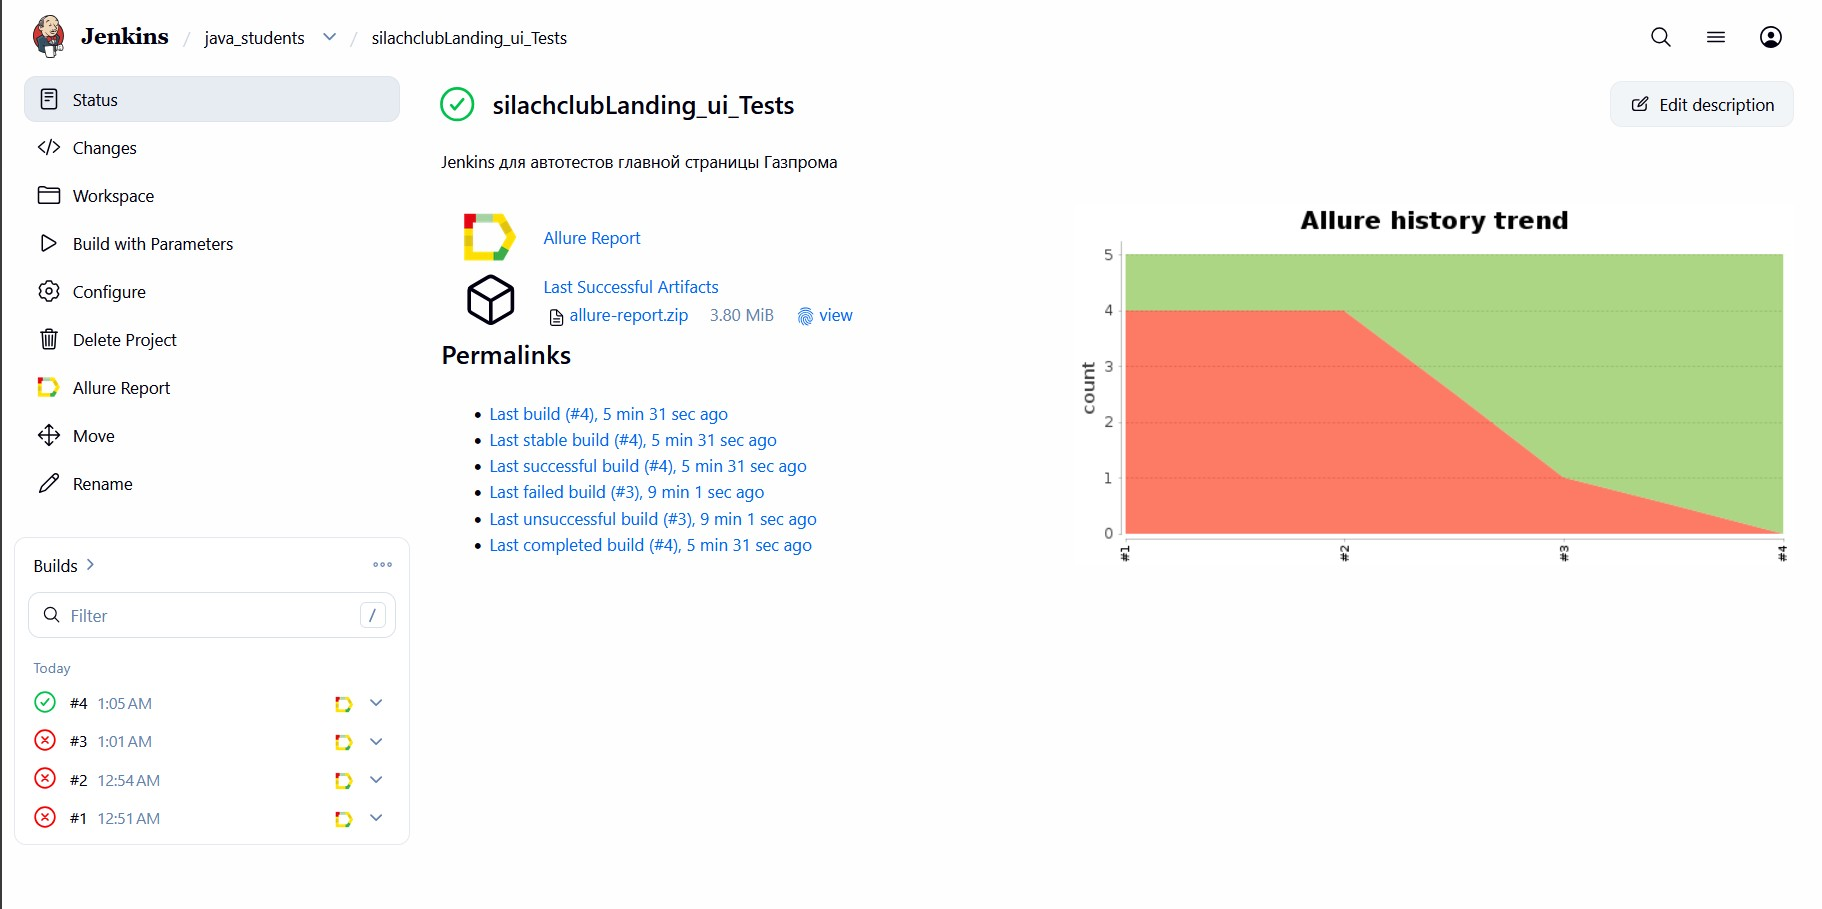
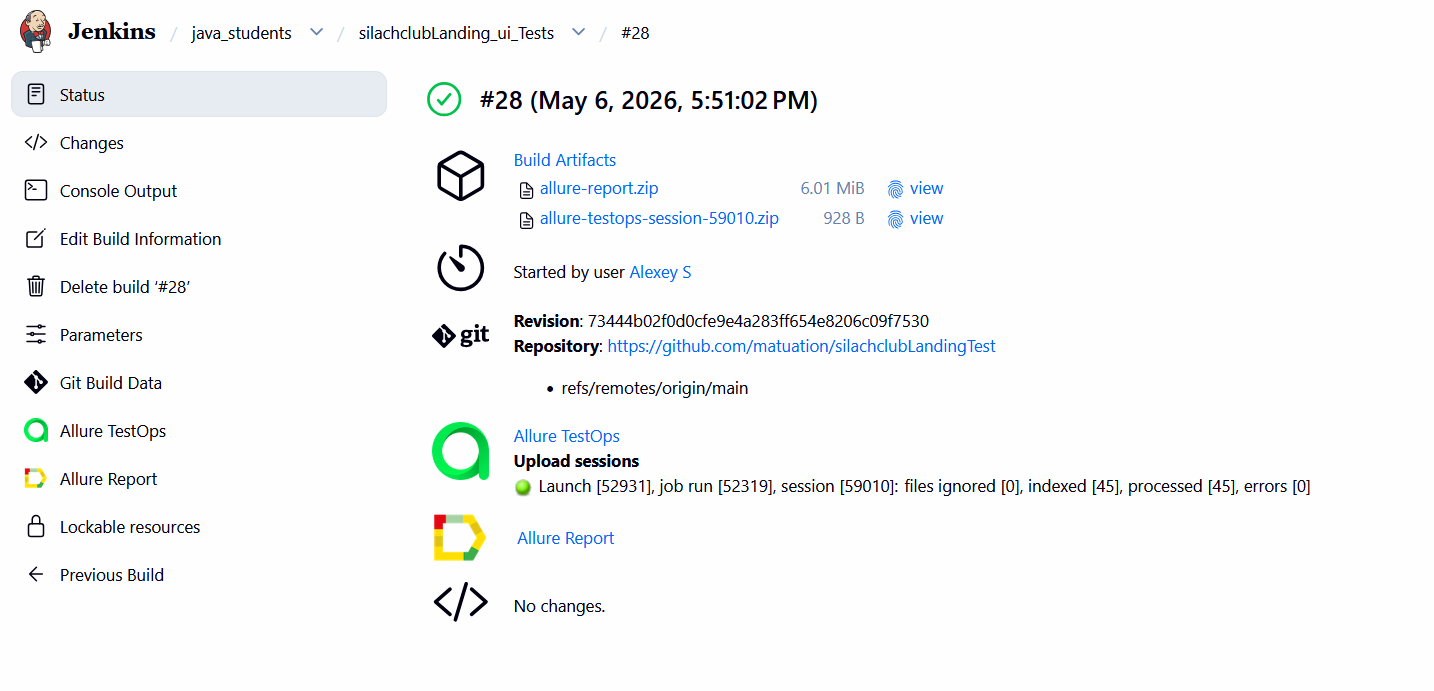
readme fix

diff --git a/readme.md b/readme.md
@@ -30,7 +30,7 @@ https://github.com/user-attachments/assets/8b793b35-5a2a-4d82-ac75-ab4371994cf0
 
 Понятный визуализированный отчёт по результатам с вложениями - скриншот, видео, etc
 
-<img src="https://github.com/matuation/silachclubLandingTest/blob/main/media/allure.png"/>
+<img src="https://github.com/matuation/silachclubLandingTest/blob/main/media/allurereport.png"/>
 
 ---
 